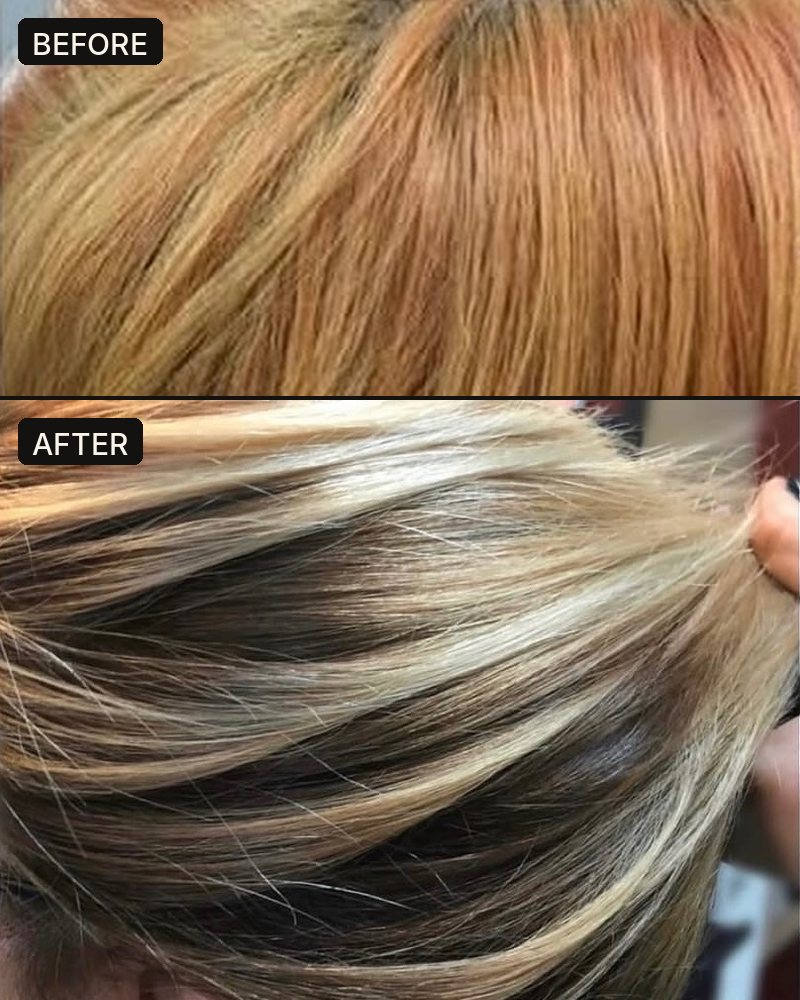
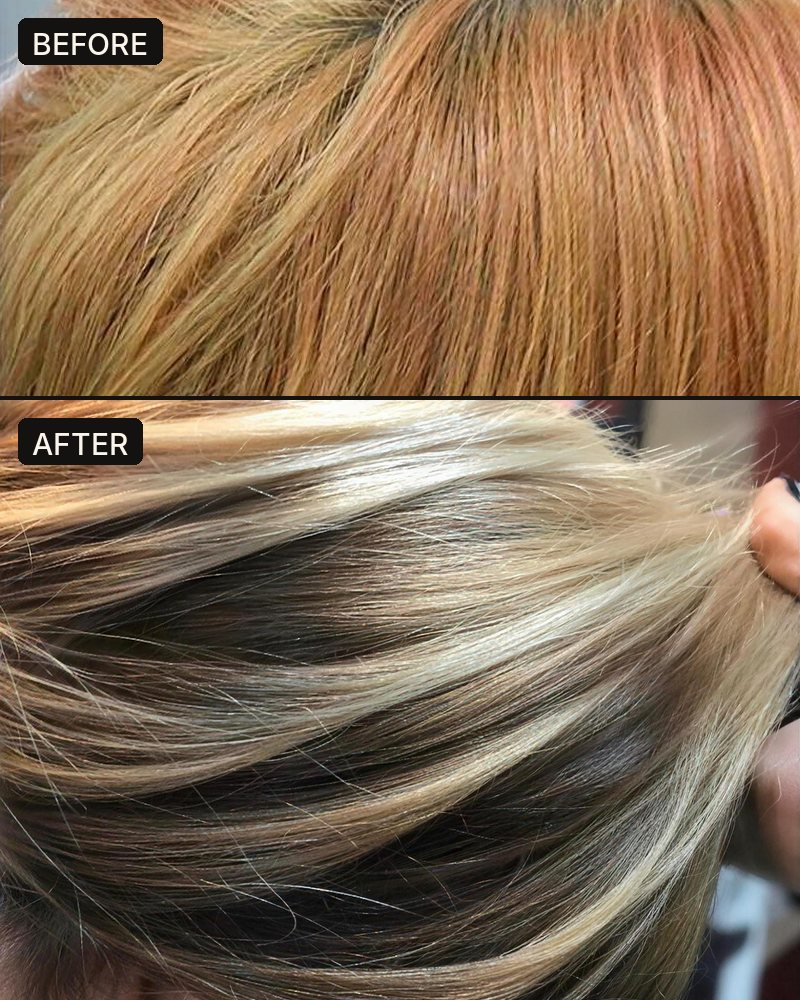
Fix mobile sideways scroll (map box forced 604px wide); sharpen Natalie's photos; add photos to color and haircut pages; add salon interior photo; schema: correct Facebook link, stylists, Spanish; image sitemap
Claude-Session: https://claude.ai/code/session_014VqJXQyWibGSpcFsaSrp79

diff --git a/index.html b/index.html
@@ -30,7 +30,7 @@
 <link rel="preconnect" href="https://fonts.gstatic.com" crossorigin>
 <link href="https://fonts.googleapis.com/css2?family=Fraunces:ital,opsz,wght@0,14..40,400;0,14..40,500;0,14..40,600;1,14..40,400;1,14..40,500&family=Inter:wght@400;500;600&display=swap" rel="stylesheet">
 <script type="application/ld+json">
-{"@context": "https://schema.org", "@type": "HairSalon", "@id": "https://classicstylesdayspas.com/#salon", "name": "Classic Styles Salon & Day Spa", "url": "https://classicstylesdayspas.com/", "telephone": "+17274874475", "priceRange": "$25-$60+", "image": "https://classicstylesdayspas.com/og-image.png", "logo": "https://classicstylesdayspas.com/apple-touch-icon.png", "slogan": "New Port Richey's 5.0-star family salon for 35+ years", "foundingDate": "1990", "founder": {"@id": "https://classicstylesdayspas.com/#tammy"}, "paymentAccepted": "Cash, Credit Card, Apple Pay, Google Pay, Contactless", "currenciesAccepted": "USD", "hasMap": "https://www.google.com/maps/place/Classic+Styles/@28.2190077,-82.7228289,17z/", "address": {"@type": "PostalAddress", "streetAddress": "4116 Grand Blvd", "addressLocality": "New Port Richey", "addressRegion": "FL", "postalCode": "34652", "addressCountry": "US"}, "geo": {"@type": "GeoCoordinates", "latitude": 28.2190077, "longitude": -82.7228289}, "areaServed": [{"@type": "City", "name": "New Port Richey"}, {"@type": "City", "name": "Holiday"}, {"@type": "City", "name": "Hudson"}, {"@type": "City", "name": "Trinity"}, {"@type": "City", "name": "Port Richey"}, {"@type": "AdministrativeArea", "name": "Pasco County"}], "knowsAbout": ["haircuts", "hair coloring", "balayage", "highlights", "perms", "bridal updos", "manicures", "pedicures", "deep conditioning treatments"], "openingHoursSpecification": [{"@type": "OpeningHoursSpecification", "dayOfWeek": ["Tuesday", "Wednesday", "Thursday", "Friday"], "opens": "09:00", "closes": "17:00"}, {"@type": "OpeningHoursSpecification", "dayOfWeek": "Saturday", "opens": "09:00", "closes": "15:00"}], "aggregateRating": {"@type": "AggregateRating", "ratingValue": "5.0", "reviewCount": "49"}, "sameAs": ["https://www.google.com/maps/place/Classic+Styles/@28.2190077,-82.7228289,17z/data=!3m1!4b1!4m6!3m5!1s0x88c291e8916f6a6b:0xa63c885e7e4ea1c5!8m2!3d28.2190077!4d-82.7228289!16s%2Fg%2F11bx1r3l72", "https://www.yelp.com/biz/classic-styles-salon-and-day-spa-new-port-richey-2", "https://www.facebook.com/HairbyTeenaatClassicStyles/"], "hasOfferCatalog": {"@type": "OfferCatalog", "name": "Salon & Spa Services", "itemListElement": [{"@type": "Offer", "priceSpecification": {"@type": "PriceSpecification", "priceCurrency": "USD", "minPrice": 25}, "itemOffered": {"@type": "Service", "name": "Haircuts & Styling", "url": "https://classicstylesdayspas.com/haircuts-styling/"}}, {"@type": "Offer", "priceSpecification": {"@type": "PriceSpecification", "priceCurrency": "USD", "minPrice": 60}, "itemOffered": {"@type": "Service", "name": "Hair Color & Balayage", "url": "https://classicstylesdayspas.com/hair-color-balayage/"}}, {"@type": "Offer", "priceCurrency": "USD", "description": "Call for pricing", "itemOffered": {"@type": "Service", "name": "Perms", "url": "https://classicstylesdayspas.com/perms/"}}, {"@type": "Offer", "priceCurrency": "USD", "description": "Call for pricing", "itemOffered": {"@type": "Service", "name": "Deep Conditioning & Treatments", "url": "https://classicstylesdayspas.com/treatments/"}}, {"@type": "Offer", "priceCurrency": "USD", "description": "Call for pricing", "itemOffered": {"@type": "Service", "name": "Nails & Pedicures", "url": "https://classicstylesdayspas.com/nail-salon/"}}, {"@type": "Offer", "priceCurrency": "USD", "description": "Call for pricing", "itemOffered": {"@type": "Service", "name": "Bridal & Event Styling"}}]}, "about": ["hair salon services", "hair coloring", "perms", "nail care"]}
+{"@context": "https://schema.org", "@type": "HairSalon", "@id": "https://classicstylesdayspas.com/#salon", "name": "Classic Styles Salon & Day Spa", "url": "https://classicstylesdayspas.com/", "telephone": "+17274874475", "priceRange": "$25-$60+", "image": ["https://classicstylesdayspas.com/og-image.png", "https://classicstylesdayspas.com/img/natalie-before-after-color.jpg", "https://classicstylesdayspas.com/img/natalie-vivid-color.jpg", "https://classicstylesdayspas.com/img/natalie-bridal-updo.jpg", "https://classicstylesdayspas.com/img/salon-shampoo-stations.jpg"], "logo": "https://classicstylesdayspas.com/apple-touch-icon.png", "slogan": "New Port Richey's 5.0-star family salon for 35+ years", "foundingDate": "1990", "founder": {"@id": "https://classicstylesdayspas.com/#tammy"}, "paymentAccepted": "Cash, Credit Card, Apple Pay, Google Pay, Contactless", "currenciesAccepted": "USD", "hasMap": "https://maps.google.com/?cid=11978599048326062533", "address": {"@type": "PostalAddress", "streetAddress": "4116 Grand Blvd", "addressLocality": "New Port Richey", "addressRegion": "FL", "postalCode": "34652", "addressCountry": "US"}, "geo": {"@type": "GeoCoordinates", "latitude": 28.2190077, "longitude": -82.7228289}, "areaServed": [{"@type": "City", "name": "New Port Richey"}, {"@type": "City", "name": "Holiday"}, {"@type": "City", "name": "Hudson"}, {"@type": "City", "name": "Trinity"}, {"@type": "City", "name": "Port Richey"}, {"@type": "AdministrativeArea", "name": "Pasco County"}], "knowsAbout": ["haircuts", "hair coloring", "balayage", "highlights", "perms", "bridal updos", "manicures", "pedicures", "deep conditioning treatments"], "openingHoursSpecification": [{"@type": "OpeningHoursSpecification", "dayOfWeek": ["Tuesday", "Wednesday", "Thursday", "Friday"], "opens": "09:00", "closes": "17:00"}, {"@type": "OpeningHoursSpecification", "dayOfWeek": "Saturday", "opens": "09:00", "closes": "15:00"}], "aggregateRating": {"@type": "AggregateRating", "ratingValue": "5.0", "reviewCount": "49", "bestRating": "5"}, "sameAs": ["https://www.google.com/maps/place/Classic+Styles/@28.2190077,-82.7228289,17z/data=!3m1!4b1!4m6!3m5!1s0x88c291e8916f6a6b:0xa63c885e7e4ea1c5!8m2!3d28.2190077!4d-82.7228289!16s%2Fg%2F11bx1r3l72", "https://www.facebook.com/p/Classic-Styles-100063598506145", "https://www.yelp.com/biz/classic-styles-salon-and-day-spa-new-port-richey-2"], "hasOfferCatalog": {"@type": "OfferCatalog", "name": "Salon & Spa Services", "itemListElement": [{"@type": "Offer", "priceSpecification": {"@type": "PriceSpecification", "priceCurrency": "USD", "minPrice": 25}, "itemOffered": {"@type": "Service", "name": "Haircuts & Styling", "url": "https://classicstylesdayspas.com/haircuts-styling/"}}, {"@type": "Offer", "priceSpecification": {"@type": "PriceSpecification", "priceCurrency": "USD", "minPrice": 60}, "itemOffered": {"@type": "Service", "name": "Hair Color & Balayage", "url": "https://classicstylesdayspas.com/hair-color-balayage/"}}, {"@type": "Offer", "priceCurrency": "USD", "description": "Call for pricing", "itemOffered": {"@type": "Service", "name": "Perms", "url": "https://classicstylesdayspas.com/perms/"}}, {"@type": "Offer", "priceCurrency": "USD", "description": "Call for pricing", "itemOffered": {"@type": "Service", "name": "Deep Conditioning & Treatments", "url": "https://classicstylesdayspas.com/treatments/"}}, {"@type": "Offer", "priceCurrency": "USD", "description": "Call for pricing", "itemOffered": {"@type": "Service", "name": "Nails & Pedicures", "url": "https://classicstylesdayspas.com/nail-salon/"}}, {"@type": "Offer", "priceCurrency": "USD", "description": "Call for pricing", "itemOffered": {"@type": "Service", "name": "Bridal & Event Styling"}}]}, "about": ["hair salon services", "hair coloring", "perms", "nail care"], "employee": [{"@type": "Person", "@id": "https://classicstylesdayspas.com/#tammy", "name": "Tammy", "jobTitle": "Owner & Master Stylist"}, {"@type": "Person", "@id": "https://classicstylesdayspas.com/#debbie", "name": "Debbie", "jobTitle": "Stylist"}, {"@type": "Person", "@id": "https://classicstylesdayspas.com/#jen", "name": "Jen", "jobTitle": "Stylist"}, {"@type": "Person", "@id": "https://classicstylesdayspas.com/#natalie", "name": "Natalie", "jobTitle": "Stylist"}, {"@type": "Person", "@id": "https://classicstylesdayspas.com/#kelly", "name": "Kelly", "jobTitle": "Nail Technician"}, {"@type": "Person", "@id": "https://classicstylesdayspas.com/#aury", "name": "Aury", "jobTitle": "Stylist"}], "knowsLanguage": ["en", "es"]}
 </script>
 <script type="application/ld+json">
 {"@context": "https://schema.org", "@type": "Person", "@id": "https://classicstylesdayspas.com/#tammy", "name": "Tammy", "jobTitle": "Owner & Master Stylist", "worksFor": {"@id": "https://classicstylesdayspas.com/#salon"}, "knowsAbout": ["haircuts", "hair coloring", "balayage", "perms", "bridal styling", "hair treatments"]}
@@ -327,6 +327,8 @@ nav.main>a,.nav-drop>a{padding:.55rem 0}
 .gchips{display:flex;gap:.6rem;flex-wrap:wrap;margin-top:1.4rem;padding:0}
 .gchip{display:inline-flex;align-items:center;gap:.4rem;border:1.5px solid var(--line);background:var(--cream);border-radius:999px;padding:.42rem 1.05rem;font-size:.8rem;font-weight:600;color:var(--copper-text);margin:0}
 .gchip b{color:var(--copper)}
+
+/* mobile overflow guard */html,body{overflow-x:clip;max-width:100%}.visit-grid>*{min-width:0}@media(max-width:960px){.mapwrap{aspect-ratio:auto;min-height:0;height:320px}}
 </style>
 </head>
 <body id="top">
@@ -551,7 +553,7 @@ nav.main>a,.nav-drop>a{padding:.55rem 0}
 <div class="wrap">
 <p class="kicker">Our Work</p>
 <h2 class="rv">Fresh from the chair</h2>
-<p class="lead rv">Real work from our chairs, starting with Natalie. More stylists’ photos coming soon.</p>
+<p class="lead rv">Real work and the real space — no stock photos. More stylists’ photos coming soon.</p>
 <div class="gal-grid">
 <!-- GALLERY 1: Natalie -->
 <figure class="tile photo rv"><img src="img/natalie-before-after-color.jpg" alt="Before and after: brassy orange hair corrected to dimensional blonde highlights by Natalie at Classic Styles Salon, New Port Richey FL" width="800" height="1000" loading="lazy" decoding="async"><figcaption><span class="t1">Color correction</span><span class="t2">by Natalie</span></figcaption></figure>
@@ -559,8 +561,8 @@ nav.main>a,.nav-drop>a{padding:.55rem 0}
 <figure class="tile photo rv"><img src="img/natalie-vivid-color.jpg" alt="Vivid rainbow hair color with red, yellow, green and blue sections by Natalie at Classic Styles Salon, New Port Richey FL" width="800" height="1000" loading="lazy" decoding="async"><figcaption><span class="t1">Vivid color</span><span class="t2">by Natalie</span></figcaption></figure>
 <!-- GALLERY 3: Natalie -->
 <figure class="tile photo rv"><img src="img/natalie-bridal-updo.jpg" alt="Braided bridal updo with pearl and crystal pins by Natalie at Classic Styles Salon, New Port Richey FL" width="800" height="1000" loading="lazy" decoding="async"><figcaption><span class="t1">Bridal updo</span><span class="t2">by Natalie</span></figcaption></figure>
-<!-- GALLERY SWAP 4 -->
-<div class="tile rv" role="img" aria-label="Fresh fade haircut photo at Classic Styles Salon, New Port Richey — photo coming soon"><svg viewBox="0 0 64 64" fill="none" stroke="currentColor" stroke-width="3" stroke-linecap="round"><path d="M20 44 L52 16"/><path d="M20 20 L52 48"/><circle cx="14" cy="50" r="7"/><circle cx="14" cy="14" r="7"/></svg><span class="t1">Fresh fade</span><span class="t2">Photo coming soon</span></div>
+<!-- GALLERY 4: interior -->
+<figure class="tile photo rv"><img src="img/salon-shampoo-stations.jpg" alt="Shampoo stations with black reclining chairs inside Classic Styles Salon, 4116 Grand Blvd, New Port Richey FL" width="800" height="1000" loading="lazy" decoding="async"><figcaption><span class="t1">Inside the salon</span><span class="t2">Shampoo stations</span></figcaption></figure>
 <!-- GALLERY SWAP 5 -->
 <div class="tile rv" role="img" aria-label="Manicure photo at Classic Styles Salon, New Port Richey — photo coming soon"><svg viewBox="0 0 64 64" fill="none" stroke="currentColor" stroke-width="3" stroke-linecap="round"><path d="M20 44 L52 16"/><path d="M20 20 L52 48"/><circle cx="14" cy="50" r="7"/><circle cx="14" cy="14" r="7"/></svg><span class="t1">Manicure</span><span class="t2">Photo coming soon</span></div>
 <!-- GALLERY SWAP 6 -->

diff --git a/hair-color-balayage/index.html b/hair-color-balayage/index.html
@@ -5,7 +5,8 @@
 <meta name="google-site-verification" content="FkM_bnmT-SljIDdS17ENYV2L3rhfLYG-b45ZpYmBgnU" />
 <meta name="viewport" content="width=device-width, initial-scale=1.0">
 <script>document.documentElement.classList.add("js")</script>
-<noscript><style>.rv{opacity:1!important;transform:none!important}</style></noscript>
+<noscript><style>.rv{opacity:1!important;transform:none!important}.work-grid{display:grid;grid-template-columns:repeat(auto-fit,minmax(220px,300px));gap:1.1rem;margin-top:2rem}.work{margin:0;position:relative;border-radius:var(--rad,14px);overflow:hidden;aspect-ratio:4/5;background:#1c1916}.work img{width:100%;height:100%;object-fit:cover;display:block}.work figcaption{position:absolute;left:0;right:0;bottom:0;padding:2rem 1rem .85rem;background:linear-gradient(transparent,rgba(20,16,12,.82));color:#fff;font-size:.95rem}.work figcaption small{display:block;color:#f3dcc4;font-size:.66rem;letter-spacing:.16em;text-transform:uppercase;margin-top:.15rem}@media (max-width:560px){.work-grid{grid-template-columns:repeat(2,1fr);gap:.7rem}}
+</style></noscript>
 <title>Balayage &amp; Hair Color New Port Richey, FL | Classic Styles</title>
 <meta name="description" content="Balayage, highlights &amp; all-over color from $60 by experienced colorists. Sun-kissed, low-maintenance color built for Florida life. Book a consult.">
 <link rel="canonical" href="https://classicstylesdayspas.com/hair-color-balayage/">
@@ -30,7 +31,7 @@
 <link rel="preconnect" href="https://fonts.gstatic.com" crossorigin>
 <link href="https://fonts.googleapis.com/css2?family=Fraunces:ital,opsz,wght@0,14..40,400;0,14..40,500;0,14..40,600;1,14..40,400;1,14..40,500&family=Inter:wght@400;500;600&display=swap" rel="stylesheet">
 <script type="application/ld+json">
-{"@context": "https://schema.org", "@type": "Service", "name": "Hair Coloring & Balayage", "serviceType": "Hair coloring, highlights, lowlights and balayage", "url": "https://classicstylesdayspas.com/hair-color-balayage/", "provider": {"@id": "https://classicstylesdayspas.com/#salon"}, "areaServed": [{"@type": "City", "name": "New Port Richey"}, {"@type": "City", "name": "Holiday"}, {"@type": "City", "name": "Hudson"}, {"@type": "City", "name": "Trinity"}, {"@type": "City", "name": "Port Richey"}, {"@type": "AdministrativeArea", "name": "Pasco County"}], "offers": {"@type": "Offer", "priceCurrency": "USD", "priceSpecification": {"@type": "PriceSpecification", "priceCurrency": "USD", "minPrice": 60}}}
+{"@context": "https://schema.org", "@type": "Service", "image": ["https://classicstylesdayspas.com/img/natalie-before-after-color.jpg", "https://classicstylesdayspas.com/img/natalie-vivid-color.jpg"], "name": "Hair Coloring & Balayage", "serviceType": "Hair coloring, highlights, lowlights and balayage", "url": "https://classicstylesdayspas.com/hair-color-balayage/", "provider": {"@id": "https://classicstylesdayspas.com/#salon"}, "areaServed": [{"@type": "City", "name": "New Port Richey"}, {"@type": "City", "name": "Holiday"}, {"@type": "City", "name": "Hudson"}, {"@type": "City", "name": "Trinity"}, {"@type": "City", "name": "Port Richey"}, {"@type": "AdministrativeArea", "name": "Pasco County"}], "offers": {"@type": "Offer", "priceCurrency": "USD", "priceSpecification": {"@type": "PriceSpecification", "priceCurrency": "USD", "minPrice": 60}}}
 </script>
 <script type="application/ld+json">
 {"@context":"https://schema.org","@type":"FAQPage","mainEntity":[{"@type":"Question","name":"How much does hair coloring cost at Classic Styles?","acceptedAnswer":{"@type":"Answer","text":"Color and highlights start at $60. Balayage and more complex work are quoted after a free consultation — call or text (727) 487-4475 for an exact price before you book."}},{"@type":"Question","name":"Will my color hold up in Florida humidity?","acceptedAnswer":{"@type":"Answer","text":"Yes. Our stylists use professional-grade color and finishing products chosen for Gulf Coast humidity, and we recommend a deep-conditioning treatment to lock in shine between visits."}},{"@type":"Question","name":"Do I need a consultation before balayage?","acceptedAnswer":{"@type":"Answer","text":"We recommend one. Bring a photo of the look you want, and your stylist will map out placement, timing and cost — consultations are free and take just a few minutes."}}]}
@@ -231,6 +232,8 @@ nav.main>a,.nav-drop>a{padding:.55rem 0}
 .floaty{animation:floaty 7s ease-in-out infinite alternate}
 @keyframes floaty{from{transform:translateY(-6px) rotate(-2deg)}to{transform:translateY(6px) rotate(2deg)}}
 @media(prefers-reduced-motion:reduce){.rv,.js .rv{opacity:1!important;transform:none!important}}
+
+/* mobile overflow guard */html,body{overflow-x:clip;max-width:100%}.visit-grid>*{min-width:0}@media(max-width:960px){.mapwrap{aspect-ratio:auto;min-height:0;height:320px}}
 </style>
 </head>
 <body id="top">
@@ -297,6 +300,20 @@ nav.main>a,.nav-drop>a{padding:.55rem 0}
 <p class="kicker">The Craft</p>
 <h2 class="rv">Color that looks like you — only better</h2>
 <p class="lead rv">Great color is never one-size-fits-all. Our stylists start every service with a conversation about your hair history, your maintenance routine and the look you actually want — then mix and place color to match. Bring a photo; we’ll tell you honestly what it takes to get there.</p>
+</div>
+</section>
+
+<!-- ============ REAL WORK ============ -->
+<section id="work">
+<div class="wrap">
+<p class="kicker">Real Results</p>
+<h2 class="rv">Recent color from our chairs</h2>
+<p class="lead rv">From brassy-to-blonde corrections to full vivid rainbows — real client color, not stock photos.</p>
+<div class="work-grid">
+<figure class="work rv"><img src="/img/natalie-before-after-color.jpg" alt="Before and after: brassy orange hair corrected to dimensional blonde highlights by Natalie at Classic Styles Salon, New Port Richey FL" width="800" height="1000" loading="lazy" decoding="async"><figcaption>Color correction<small>by Natalie</small></figcaption></figure>
+<figure class="work rv"><img src="/img/natalie-vivid-color.jpg" alt="Vivid rainbow hair color with red, yellow, green and blue sections by Natalie at Classic Styles Salon, New Port Richey FL" width="800" height="1000" loading="lazy" decoding="async"><figcaption>Vivid color<small>by Natalie</small></figcaption></figure>
+</div>
+<p class="lead rv" style="margin-top:1.4rem"><a href="/#gallery">See the full gallery →</a></p>
 </div>
 </section>
 

diff --git a/haircuts-styling/index.html b/haircuts-styling/index.html
@@ -5,7 +5,8 @@
 <meta name="google-site-verification" content="FkM_bnmT-SljIDdS17ENYV2L3rhfLYG-b45ZpYmBgnU" />
 <meta name="viewport" content="width=device-width, initial-scale=1.0">
 <script>document.documentElement.classList.add("js")</script>
-<noscript><style>.rv{opacity:1!important;transform:none!important}</style></noscript>
+<noscript><style>.rv{opacity:1!important;transform:none!important}.work-grid{display:grid;grid-template-columns:repeat(auto-fit,minmax(220px,300px));gap:1.1rem;margin-top:2rem}.work{margin:0;position:relative;border-radius:var(--rad,14px);overflow:hidden;aspect-ratio:4/5;background:#1c1916}.work img{width:100%;height:100%;object-fit:cover;display:block}.work figcaption{position:absolute;left:0;right:0;bottom:0;padding:2rem 1rem .85rem;background:linear-gradient(transparent,rgba(20,16,12,.82));color:#fff;font-size:.95rem}.work figcaption small{display:block;color:#f3dcc4;font-size:.66rem;letter-spacing:.16em;text-transform:uppercase;margin-top:.15rem}@media (max-width:560px){.work-grid{grid-template-columns:repeat(2,1fr);gap:.7rem}}
+</style></noscript>
 <title>Haircuts New Port Richey, FL | Women, Men &amp; Kids</title>
 <meta name="description" content="Women's, men's &amp; kids' haircuts from $25 in New Port Richey. Walk-ins welcome, 35 years of experience. Book your haircut at Classic Styles.">
 <link rel="canonical" href="https://classicstylesdayspas.com/haircuts-styling/">
@@ -30,7 +31,7 @@
 <link rel="preconnect" href="https://fonts.gstatic.com" crossorigin>
 <link href="https://fonts.googleapis.com/css2?family=Fraunces:ital,opsz,wght@0,14..40,400;0,14..40,500;0,14..40,600;1,14..40,400;1,14..40,500&family=Inter:wght@400;500;600&display=swap" rel="stylesheet">
 <script type="application/ld+json">
-{"@context": "https://schema.org", "@type": "Service", "name": "Haircuts & Styling", "serviceType": "Women's, men's and children's haircuts and styling", "url": "https://classicstylesdayspas.com/haircuts-styling/", "provider": {"@id": "https://classicstylesdayspas.com/#salon"}, "areaServed": [{"@type": "City", "name": "New Port Richey"}, {"@type": "City", "name": "Holiday"}, {"@type": "City", "name": "Hudson"}, {"@type": "City", "name": "Trinity"}, {"@type": "City", "name": "Port Richey"}, {"@type": "AdministrativeArea", "name": "Pasco County"}], "offers": {"@type": "Offer", "priceCurrency": "USD", "priceSpecification": {"@type": "PriceSpecification", "priceCurrency": "USD", "minPrice": 25}}}
+{"@context": "https://schema.org", "@type": "Service", "image": ["https://classicstylesdayspas.com/img/natalie-bridal-updo.jpg"], "name": "Haircuts & Styling", "serviceType": "Women's, men's and children's haircuts and styling", "url": "https://classicstylesdayspas.com/haircuts-styling/", "provider": {"@id": "https://classicstylesdayspas.com/#salon"}, "areaServed": [{"@type": "City", "name": "New Port Richey"}, {"@type": "City", "name": "Holiday"}, {"@type": "City", "name": "Hudson"}, {"@type": "City", "name": "Trinity"}, {"@type": "City", "name": "Port Richey"}, {"@type": "AdministrativeArea", "name": "Pasco County"}], "offers": {"@type": "Offer", "priceCurrency": "USD", "priceSpecification": {"@type": "PriceSpecification", "priceCurrency": "USD", "minPrice": 25}}}
 </script>
 <script type="application/ld+json">
 {"@context":"https://schema.org","@type":"FAQPage","mainEntity":[{"@type":"Question","name":"Do you take walk-ins for haircuts?","acceptedAnswer":{"@type":"Answer","text":"Yes — walk-ins are welcome Tuesday through Saturday. To guarantee a chair, call or text (727) 487-4475 before you come in; same-day appointments are often available."}},{"@type":"Question","name":"How much is a haircut at Classic Styles?","acceptedAnswer":{"@type":"Answer","text":"Women’s, men’s and children’s haircuts all start at $25, including a style consultation. Most cuts take about 30 minutes."}},{"@type":"Question","name":"Do you cut kids’ hair?","acceptedAnswer":{"@type":"Answer","text":"Absolutely — children’s cuts start at $25, and our stylists are patient with first haircuts and wiggly toddlers. Families have trusted us for generations."}}]}
@@ -231,6 +232,8 @@ nav.main>a,.nav-drop>a{padding:.55rem 0}
 .floaty{animation:floaty 7s ease-in-out infinite alternate}
 @keyframes floaty{from{transform:translateY(-6px) rotate(-2deg)}to{transform:translateY(6px) rotate(2deg)}}
 @media(prefers-reduced-motion:reduce){.rv,.js .rv{opacity:1!important;transform:none!important}}
+
+/* mobile overflow guard */html,body{overflow-x:clip;max-width:100%}.visit-grid>*{min-width:0}@media(max-width:960px){.mapwrap{aspect-ratio:auto;min-height:0;height:320px}}
 </style>
 </head>
 <body id="top">
@@ -297,6 +300,19 @@ nav.main>a,.nav-drop>a{padding:.55rem 0}
 <p class="kicker">The Craft</p>
 <h2 class="rv">A cut that grows out beautifully</h2>
 <p class="lead rv">The difference between a good cut and a great one shows up three weeks later. Our stylists cut for how your hair actually behaves — its texture, its growth patterns, your morning routine — so it falls into place long after you leave the chair.</p>
+</div>
+</section>
+
+<!-- ============ REAL WORK ============ -->
+<section id="work">
+<div class="wrap">
+<p class="kicker">Real Results</p>
+<h2 class="rv">Styling from our chairs</h2>
+<p class="lead rv">Weddings, proms and special occasions — real updos by our stylists, not stock photos.</p>
+<div class="work-grid">
+<figure class="work rv"><img src="/img/natalie-bridal-updo.jpg" alt="Braided bridal updo with pearl and crystal pins by Natalie at Classic Styles Salon, New Port Richey FL" width="800" height="1000" loading="lazy" decoding="async"><figcaption>Bridal updo<small>by Natalie</small></figcaption></figure>
+</div>
+<p class="lead rv" style="margin-top:1.4rem"><a href="/#gallery">See the full gallery →</a></p>
 </div>
 </section>
 

diff --git a/nail-salon/index.html b/nail-salon/index.html
@@ -231,6 +231,8 @@ nav.main>a,.nav-drop>a{padding:.55rem 0}
 .floaty{animation:floaty 7s ease-in-out infinite alternate}
 @keyframes floaty{from{transform:translateY(-6px) rotate(-2deg)}to{transform:translateY(6px) rotate(2deg)}}
 @media(prefers-reduced-motion:reduce){.rv,.js .rv{opacity:1!important;transform:none!important}}
+
+/* mobile overflow guard */html,body{overflow-x:clip;max-width:100%}.visit-grid>*{min-width:0}@media(max-width:960px){.mapwrap{aspect-ratio:auto;min-height:0;height:320px}}
 </style>
 </head>
 <body id="top">

diff --git a/perms/index.html b/perms/index.html
@@ -231,6 +231,8 @@ nav.main>a,.nav-drop>a{padding:.55rem 0}
 .floaty{animation:floaty 7s ease-in-out infinite alternate}
 @keyframes floaty{from{transform:translateY(-6px) rotate(-2deg)}to{transform:translateY(6px) rotate(2deg)}}
 @media(prefers-reduced-motion:reduce){.rv,.js .rv{opacity:1!important;transform:none!important}}
+
+/* mobile overflow guard */html,body{overflow-x:clip;max-width:100%}.visit-grid>*{min-width:0}@media(max-width:960px){.mapwrap{aspect-ratio:auto;min-height:0;height:320px}}
 </style>
 </head>
 <body id="top">

diff --git a/privacy/index.html b/privacy/index.html
@@ -164,6 +164,8 @@ nav.main>a,.nav-drop>a{padding:.55rem 0}
 .floaty{animation:floaty 7s ease-in-out infinite alternate}
 @keyframes floaty{from{transform:translateY(-6px) rotate(-2deg)}to{transform:translateY(6px) rotate(2deg)}}
 @media(prefers-reduced-motion:reduce){.rv,.js .rv{opacity:1!important;transform:none!important}}
+
+/* mobile overflow guard */html,body{overflow-x:clip;max-width:100%}.visit-grid>*{min-width:0}@media(max-width:960px){.mapwrap{aspect-ratio:auto;min-height:0;height:320px}}
 </style>
 </head>
 <body id="top">

diff --git a/treatments/index.html b/treatments/index.html
@@ -231,6 +231,8 @@ nav.main>a,.nav-drop>a{padding:.55rem 0}
 .floaty{animation:floaty 7s ease-in-out infinite alternate}
 @keyframes floaty{from{transform:translateY(-6px) rotate(-2deg)}to{transform:translateY(6px) rotate(2deg)}}
 @media(prefers-reduced-motion:reduce){.rv,.js .rv{opacity:1!important;transform:none!important}}
+
+/* mobile overflow guard */html,body{overflow-x:clip;max-width:100%}.visit-grid>*{min-width:0}@media(max-width:960px){.mapwrap{aspect-ratio:auto;min-height:0;height:320px}}
 </style>
 </head>
 <body id="top">

diff --git a/questions/index.html b/questions/index.html
@@ -238,6 +238,8 @@ nav.main>a,.nav-drop>a{padding:.55rem 0}
 /* H2 category answers (pass 3) */
 .h2-answer{color:var(--muted);font-size:1.03rem;max-width:640px;margin:.1rem 0 1.5rem}
 section.alt .h2-answer{color:var(--muted)}
+
+/* mobile overflow guard */html,body{overflow-x:clip;max-width:100%}.visit-grid>*{min-width:0}@media(max-width:960px){.mapwrap{aspect-ratio:auto;min-height:0;height:320px}}
 </style>
 </head>
 <body id="top">
